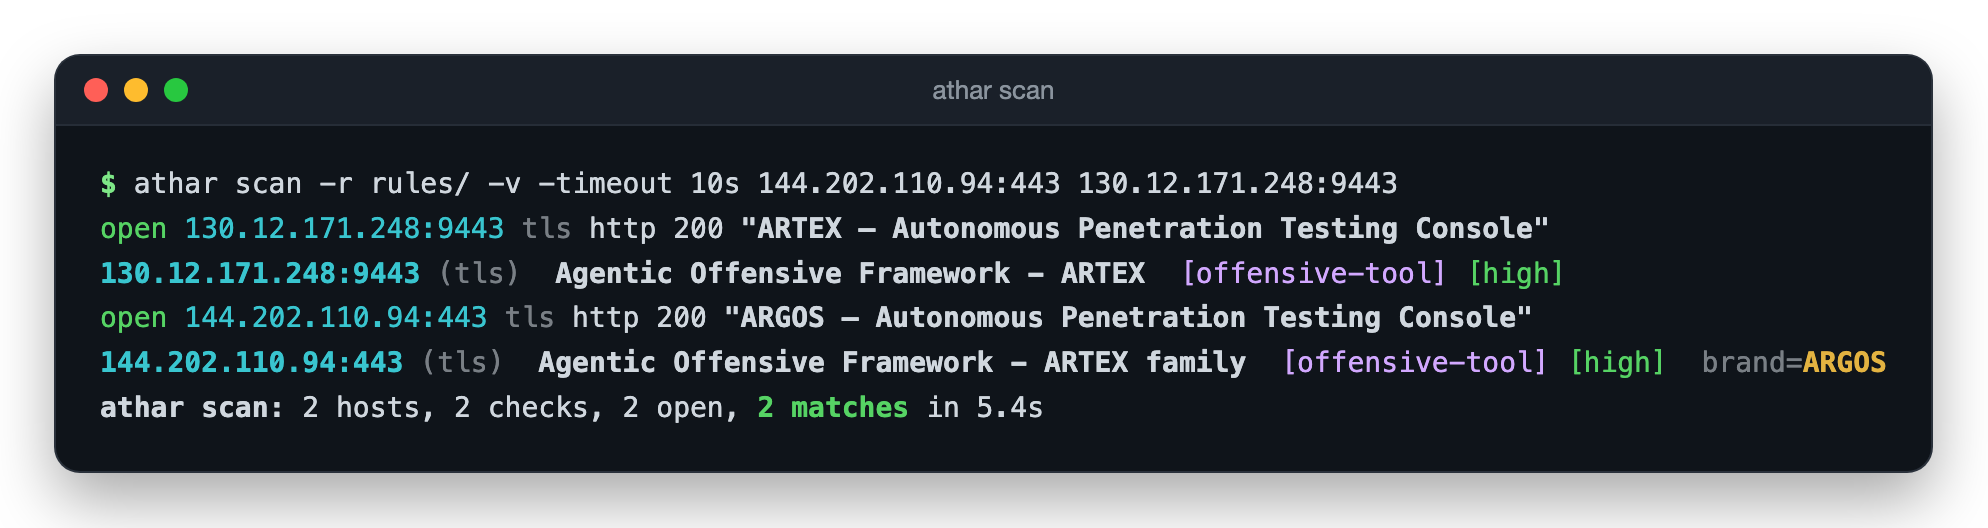
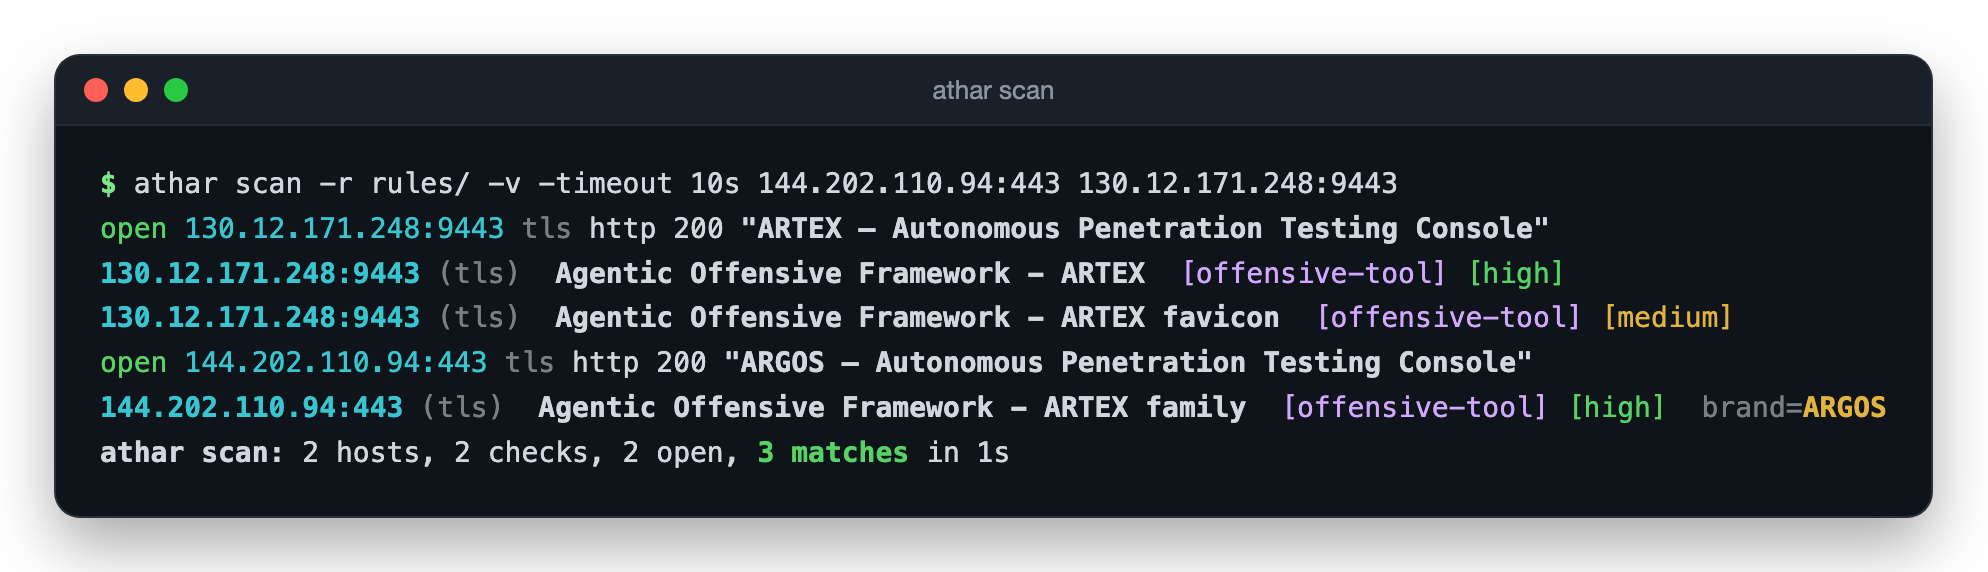
Update the README rule example and spec to the localized ARTEX rule
- README "A rule": the current family rule (titles in Chinese, Korean
  and English, brand extraction, ports), tests written as response,
  expect, extracted, and a short walk through each section
- A test fails CI if the README example stops passing verify -strict
  or drifts from the real rule with the same id
- Spec: sections 6, 7, 9 and 10 use the current rules; section 9
  explains extracted with an example; section 10 shows real convert
  output, including the Shodan value list
- Scan example and screenshot rerun with the current rules, which now
  include the ARTEX favicon rule
- Rule template lists response before expect

Changed region(s): [[0.0312, 0.303, 0.9668, 0.8182], [0.0312, 0.0909, 0.9668, 0.2424], [0.0312, 0.8788, 0.9668, 0.9091]]

diff --git a/cli/cmd/athar/main_test.go b/cli/cmd/athar/main_test.go
@@ -7,8 +7,11 @@ import (
 	"net/http/httptest"
 	"os"
 	"path/filepath"
+	"reflect"
 	"strings"
 	"testing"
+
+	"github.com/Athar-HQ/Athar/cli/internal/rule"
 )
 
 func runCLI(args ...string) (int, string, string) {
@@ -266,4 +269,68 @@ func TestConvertCommand(t *testing.T) {
 			t.Errorf("%v: exit %d, want %d", args, code, exitUsage)
 		}
 	}
+}
+
+// The rule in the README's "A rule" section is the first one people read.
+// It must pass verify -strict, and apart from trimmed metadata and tests it
+// must be the real rule with the same id, so the two can't drift apart.
+func TestReadmeRuleExample(t *testing.T) {
+	readme, err := os.ReadFile("../../../README.md")
+	if err != nil {
+		t.Fatal(err)
+	}
+	text := string(readme)
+	section := strings.Index(text, "## A rule\n")
+	if section < 0 {
+		t.Fatal(`README has no "## A rule" section`)
+	}
+	text = text[section:]
+	start := strings.Index(text, "```yaml\n")
+	end := strings.Index(text[start+8:], "```")
+	if start < 0 || end < 0 {
+		t.Fatal(`no yaml block in the "A rule" section`)
+	}
+	example := text[start+8 : start+8+end]
+
+	path := filepath.Join(t.TempDir(), "readme-example.yml")
+	if err := os.WriteFile(path, []byte(example), 0o644); err != nil {
+		t.Fatal(err)
+	}
+	if code, out, errOut := runCLI("verify", "-strict", path); code != exitOK {
+		t.Fatalf("README rule example fails verify -strict:\n%s%s", out, errOut)
+	}
+
+	ex, err := rule.Parse([]byte(example), "README.md")
+	if err != nil {
+		t.Fatal(err)
+	}
+	files, err := rule.Files([]string{"../../../rules"})
+	if err != nil {
+		t.Fatal(err)
+	}
+	var real *rule.Rule
+	for _, f := range files {
+		r, err := rule.Load(f)
+		if err != nil {
+			t.Fatal(err)
+		}
+		if r.ID == ex.ID {
+			real = r
+		}
+	}
+	if real == nil {
+		t.Fatalf("README rule example has id %s, which no rule in rules/ has", ex.ID)
+	}
+	same := func(what string, a, b any) {
+		if !reflect.DeepEqual(a, b) {
+			t.Errorf("README rule example differs from %s in %s; update the \"A rule\" section\nREADME: %#v\nrule:   %#v", real.Path, what, a, b)
+		}
+	}
+	same("title", ex.Title, real.Title)
+	same("target.protocol", ex.Target.Protocol, real.Target.Protocol)
+	same("target.ports", ex.Target.Ports, real.Target.Ports)
+	same("detection", ex.Detection, real.Detection)
+	same("identifies", ex.Identifies, real.Identifies)
+	same("extract", ex.Extract, real.Extract)
+	same("confidence", ex.Confidence, real.Confidence)
 }

diff --git a/spec/athar-spec.md b/spec/athar-spec.md
@@ -163,15 +163,18 @@ Detection is Sigma's grammar, unchanged except for the `probe` key. A map is AND
 
 **Keywords.** Sigma's `keywords` selection (a bare list of strings) is kept for full-text search. It matches across `service.banner`, `http.headers_raw` and `http.body`, and maps to every engine's free-text search.
 
+A filter excludes what a selection would otherwise include. This detection finds consoles of the ARTEX family that no longer serve the original ARTEX favicon, which is how rebrands surface:
+
 ```yaml
 detection:
   selection_title:
-    http.title|contains: 'Autonomous Penetration Testing Console'
-  selection_body:
-    http.body|contains: '/function/tasks'
-  filter_known:
+    http.title|contains:
+      - '自主渗透测试控制台'
+      - '자율 침투 테스트 콘솔'
+      - 'Autonomous Penetration Testing Console'
+  filter_artex_icon:
     http.favicon.mmh3: -576220750
-  condition: selection_title and selection_body and not filter_known
+  condition: selection_title and not filter_artex_icon
 ```
 
 ## 7. Identification
@@ -183,25 +186,26 @@ detection:
 
 They run in that order. The scanner evaluates `detection` first and runs `extract` on the same response only if the rule matched. `extract` never changes the outcome: if its pattern finds nothing, the service still matches and the value is left out of the record. A field that `extract` reads does not have to appear in `detection`.
 
-The family rule shows the split. `detection` matches every brand by the title suffix and the route they share; `extract` then reads which brand this deployment shows from the part of the title before the suffix.
+The family rule shows the split. `detection` matches every brand by the title suffix they share, in Chinese, Korean or English; `extract` then reads which brand this deployment shows from the part of the title before the suffix.
 
 ```yaml
 detection:
   selection_title:
-    http.title|contains: 'Autonomous Penetration Testing Console'
-  selection_route:
-    http.body|contains: '/function/tasks'
-  condition: selection_title and selection_route
+    http.title|contains:
+      - '自主渗透测试控制台'
+      - '자율 침투 테스트 콘솔'
+      - 'Autonomous Penetration Testing Console'
+  condition: selection_title
 identifies:
   family: artex
   category: offensive-tool
 extract:
   brand:
     field: http.title
-    regex: '^(?P<brand>.+?)\s+[—–-]\s+Autonomous Penetration Testing Console'
+    regex: '^(?P<brand>.+?)\s*[—–\-:·]\s*(?:自主渗透测试控制台|자율 침투 테스트 콘솔|(?i:Autonomous Penetration Testing Console))'
 ```
 
-For the title `NKW — Autonomous Penetration Testing Console`, the record gets `brand: NKW`. A deployment whose title is only `Autonomous Penetration Testing Console` still matches; its record has no brand.
+For the title `ARTEX — 自主渗透测试控制台` the record gets `brand: ARTEX`, and for `NKW: 자율 침투 테스트 콘솔` it gets `brand: NKW`. A console whose title is only the suffix, `自主渗透测试控制台`, still matches; its record has no brand.
 
 Each `extract` entry is named after the value it produces and gives the `field` to read plus either an RE2 `regex` or a `jsonpath` for JSON bodies. The value is the regex group named like the entry (`(?P<brand>…)` for `brand`), else the first group, else the whole match. This is the same idea as Recog's `param` elements.
 
@@ -212,13 +216,14 @@ What a scanner emits for one matched service:
 ```json
 {
   "target": "176.31.234.8:80",
+  "tls": false,
   "rule": "0ce69e91-baee-4475-81ee-4b8eca1a6c3b",
   "title": "Agentic Offensive Framework - ARTEX family",
   "family": "artex",
   "category": "offensive-tool",
   "extracted": { "brand": "NKW" },
   "confidence": "high",
-  "matched": ["selection_title", "selection_route"],
+  "matched": ["selection_title"],
   "probes": ["default"],
   "observed": "2026-11-24T19:46:00Z"
 }
@@ -251,14 +256,26 @@ A rule needs both kinds:
 - A **`match`** test is a response the rule must recognise. Without one, nothing shows that the rule matches anything.
 - A **`no_match`** test is a near miss the rule must reject, such as a similar title on an unrelated page. It catches rules that are too loose.
 
-When someone later edits a selection, the tests show at once whether the rule stopped matching the real service or started matching the near miss. On a `match` test, `extracted` also checks the values `extract` produces.
+When someone later edits a selection, the tests show at once whether the rule stopped matching the real service or started matching the near miss.
+
+A `match` test can also check what `extract` reads. This test passes only if the rule matches the title and `extract` finds the brand `NKW` in it:
+
+```yaml
+tests:
+  - name: English title
+    response:
+      http.title: 'NKW — Autonomous Penetration Testing Console'
+    expect: match
+    extracted:
+      brand: NKW
+```
 
 | Key | Required | Meaning |
 | --- | --- | --- |
 | `name` | yes | Short description of the case. |
-| `expect` | yes | `match` or `no_match`. |
 | `response` | yes | Taxonomy fields and their values for the baseline probe. Fields not listed are absent. |
-| `extracted` | no | Values `extract` must produce for this response. |
+| `expect` | yes | `match` or `no_match`. |
+| `extracted` | no | On a `match` test, the values `extract` must find in this response, by name. |
 
 How tests give responses for custom probes is not defined yet.
 
@@ -287,30 +304,57 @@ A backend turns a rule into one engine's query and labels the result with its fi
 
 **Body truncation.** Engines index only part of large bodies; Censys [searches the first 6 KB](https://docs.censys.com/changelog/august-24-2026) for name-based web endpoints. A `body` match deep in a page can be missed by the engine but found by the scanner.
 
-Example conversions of the ARTEX rules in [rules/offensive-tool/](../rules/offensive-tool/):
+Example conversions of the ARTEX rules in [rules/offensive-tool/](../rules/offensive-tool/), as `athar convert` prints them. The family rule is three alternative titles:
 
 ```text
 Family, FOFA (exact):
-  title="Autonomous Penetration Testing Console" && body="/function/tasks"
+  title="自主渗透测试控制台" || title="자율 침투 테스트 콘솔"
+  || title="Autonomous Penetration Testing Console"
 
-Family, Shodan (approximate):
-  http.title:"Autonomous Penetration Testing Console" http.html:"/function/tasks"
+Family, Shodan (approximate: text is tokenised). Shodan has no OR between
+conditions, but it reads a comma-separated value list as "any of these":
+  http.title:"自主渗透测试控制台","자율 침투 테스트 콘솔","Autonomous Penetration Testing Console"
 
-Family, Censys Platform (approximate; nesting to verify):
-  host.services: (endpoints.http.html_title: "Autonomous Penetration Testing Console"
-                  and endpoints.http.body: "/function/tasks")
+Family, Censys Platform (approximate: ':' is tokenised):
+  host.services: (endpoints.http.html_title: "自主渗透测试控制台"
+                  or endpoints.http.html_title: "자율 침투 테스트 콘솔"
+                  or endpoints.http.html_title: "Autonomous Penetration Testing Console")
 
-Family, Modat at service level (approximate: http.body matches whole words):
-  http.title~"Autonomous Penetration Testing Console" and http.body~"/function/tasks"
+Family, Modat at service level (exact):
+  http.title~"自主渗透测试控制台" or http.title~"자율 침투 테스트 콘솔"
+  or http.title~"Autonomous Penetration Testing Console"
+```
 
-Variant, FOFA (approximate: startswith becomes contains):
-  title="Autonomous Penetration Testing Console" && body="/function/tasks"
+The ARTEX rule adds `title starts with ARTEX or the ARTEX favicon`:
+
+```text
+ARTEX, FOFA (approximate: startswith becomes contains):
+  (title="自主渗透测试控制台" || title="자율 침투 테스트 콘솔"
+   || title="Autonomous Penetration Testing Console")
   && (title="ARTEX" || icon_hash="-576220750")
 
-Basic auth, Modat at host level (exact):
-  same_service(http.headers: (key = "WWW-Authenticate"
-               and value = "Basic realm=\"ARTEX\", charset=\"UTF-8\""))
+ARTEX, Shodan (superset): the alternative of a title prefix and a favicon
+spans two filters, so it is dropped and only the family titles remain.
+  http.title:"自主渗透测试控制台","자율 침투 테스트 콘솔","Autonomous Penetration Testing Console"
+
+ARTEX, Modat (exact: =~ is a case-insensitive regex):
+  (http.title~"自主渗透测试控制台" or http.title~"자율 침투 테스트 콘솔"
+   or http.title~"Autonomous Penetration Testing Console")
+  and (http.title=~"^ARTEX" or http.files.mmh3=-576220750)
 ```
+
+The Basic auth rule matches one header, which only Modat can search by name:
+
+```text
+Basic auth, Modat at service level (exact):
+  http.headers: (key = "Www-Authenticate"
+                 and value = "Basic realm=\"ARTEX\", charset=\"UTF-8\"")
+
+Basic auth, FOFA (approximate: the value is searched in the whole header block):
+  header="Basic realm=\"ARTEX\", charset=\"UTF-8\""
+```
+
+At Modat host level, a query goes into `same_service( … )`.
 
 ## 11. Out of scope for v0.1
 

diff --git a/README.md b/README.md
@@ -28,35 +28,66 @@ If you can read a Sigma rule, you can read this one. The metadata and the `detec
 title: Agentic Offensive Framework - ARTEX family
 id: 0ce69e91-baee-4475-81ee-4b8eca1a6c3b
 status: experimental
+description: |
+  Web console of an agentic offensive framework that is deployed under many
+  brand names. Every brand keeps the same title suffix, in Chinese, Korean or
+  English, so matching the suffix finds the rebrands.
 author: Gameel Ali (@MalGamy12)
 date: 2026-11-24
 target:
   protocol: http
-  tls: auto
+  ports: [8787, 8443, 443, 80]
 detection:
   selection_title:
-    http.title|contains: 'Autonomous Penetration Testing Console'
-  selection_route:
-    http.body|contains: '/function/tasks'
-  condition: selection_title and selection_route
+    http.title|contains:
+      - '自主渗透测试控制台'
+      - '자율 침투 테스트 콘솔'
+      - 'Autonomous Penetration Testing Console'
+  condition: selection_title
 identifies:
   family: artex
   category: offensive-tool
 extract:
-  brand:
+  brand:  # the text before the suffix
     field: http.title
-    regex: '^(?P<brand>.+?)\s+[—–-]\s+Autonomous Penetration Testing Console'
+    regex: '^(?P<brand>.+?)\s*[—–\-:·]\s*(?:自主渗透测试控制台|자율 침투 테스트 콘솔|(?i:Autonomous Penetration Testing Console))'
 confidence: high
-tests:
-  - name: NKW branding
+tests:  # given this response, the rule must give this result
+  - name: ARTEX, Chinese title, em dash
+    response:
+      http.title: 'ARTEX — 自主渗透测试控制台'
     expect: match
-    extracted: { brand: NKW }
+    extracted:
+      brand: ARTEX  # the value extract must find in this title
+  - name: ARTEX, Korean title, colon
+    response:
+      http.title: 'ARTEX: 자율 침투 테스트 콘솔'
+    expect: match
+    extracted:
+      brand: ARTEX
+  - name: English title
     response:
       http.title: 'NKW — Autonomous Penetration Testing Console'
-      http.body: '... /function/tasks ...'
+    expect: match
+    extracted:
+      brand: NKW
+  - name: English pentest vendor page
+    response:
+      http.title: 'Penetration Testing Services | Example Corp'
+    expect: no_match
 ```
 
-The full rule, with its description, negative test and the original FOFA query, is in [rules/offensive-tool/aof_artex.yml](rules/offensive-tool/aof_artex.yml).
+Read it top to bottom:
+
+- **`target`**: an HTTP service, with or without TLS. The ports are where these consoles usually listen; they tell `athar scan` where to look and never decide a match.
+- **`detection`**: the page title contains the console's suffix in one of three languages. A list of values means "any of them", as in Sigma.
+- **`identifies`** and **`extract`**: a match is a console of the ARTEX family, and the brand is whatever comes before the suffix.
+- **`confidence`**: how likely a match is this software and not something that only looks like it.
+- **`tests`**: sample responses and the result the rule must give for each. `expect` is `match` or `no_match`; for a match, `extracted` lists what `extract` must find, so `brand: NKW` means the brand read from `NKW — Autonomous Penetration Testing Console` has to be `NKW`. `athar verify` runs the tests, and CI rejects a rule whose tests fail.
+
+The same rule drives every command. `athar scan` evaluates it on live responses and prints the brand it finds; `athar convert` turns it into a query for each search engine.
+
+The full rule, with references, false positives, more tests and the original engine queries, is in [rules/offensive-tool/aof_artex.yml](rules/offensive-tool/aof_artex.yml).
 
 ## How it works
 
@@ -163,10 +194,10 @@ It connects to every host and port, fingerprints each open port (TLS certificate
 
 A real scan from 25 November 2026. Infrastructure like this moves fast, so these hosts may answer differently by the time you read this.
 
-![athar scan of 144.202.110.94:443 and 130.12.171.248:9443: the ARTEX variant rule matches an ARTEX console, the family rule matches an ARGOS console and extracts brand=ARGOS](docs/images/athar-scan.png)
+![athar scan of 144.202.110.94:443 and 130.12.171.248:9443: the ARTEX and ARTEX favicon rules match an ARTEX console, the family rule matches an ARGOS console and extracts brand=ARGOS](docs/images/athar-scan.png)
 
-- **130.12.171.248:9443** is an ARTEX console. The ARTEX variant rule matches both its title prefix and its favicon hash, so it replaces the family match.
-- **144.202.110.94:443** is an ARGOS console behind a Caddy proxy with a Let's Encrypt certificate for the IP. The family rule matches and extracts the brand. The ARTEX variant rule does not, because neither the title prefix nor the favicon is ARTEX's.
+- **130.12.171.248:9443** is an ARTEX console. The ARTEX rule matches both its title prefix and its favicon hash, so it replaces the family match. The ARTEX favicon rule, which looks for the favicon alone to catch consoles with a changed title, matches too, with medium confidence.
+- **144.202.110.94:443** is an ARGOS console behind a Caddy proxy with a Let's Encrypt certificate for the IP. The family rule matches and extracts the brand. The ARTEX and ARTEX favicon rules do not, because neither the title prefix nor the favicon is ARTEX's.
 
 An hour earlier the first host accepted connections but reset every request, perhaps because of a source-IP filter or a restart. `-v` showed it as:
 
@@ -178,7 +209,8 @@ For tools, `-json` prints one JSON object per line instead, for example to pipe 
 
 ```text
 $ athar scan -r rules/ -json -timeout 10s 130.12.171.248:9443
-{"target":"130.12.171.248:9443","tls":true,"rule":"0536c409-98ed-4d1d-8e07-7c80b39a4f53","title":"Agentic Offensive Framework - ARTEX","product":"ARTEX","family":"artex","category":"offensive-tool","confidence":"high","matched":["selection_brand","selection_icon","selection_route","selection_title"],"probes":["default"],"observed":"2026-11-25T08:18:27Z"}
+{"target":"130.12.171.248:9443","tls":true,"rule":"0536c409-98ed-4d1d-8e07-7c80b39a4f53","title":"Agentic Offensive Framework - ARTEX","product":"ARTEX","family":"artex","category":"offensive-tool","confidence":"high","matched":["selection_brand","selection_icon","selection_title"],"probes":["default"],"observed":"2026-11-25T09:16:50Z"}
+{"target":"130.12.171.248:9443","tls":true,"rule":"425e5153-ed37-41c1-875f-537808d58078","title":"Agentic Offensive Framework - ARTEX favicon","product":"ARTEX","family":"artex","category":"offensive-tool","confidence":"medium","matched":["selection_icon"],"probes":["default"],"observed":"2026-11-25T09:16:50Z"}
 ```
 
 | Flag | Effect |

diff --git a/rules/README.md b/rules/README.md
@@ -72,15 +72,15 @@ falsepositives:
   - <when a legitimate service would match>
 tests:
   - name: <positive case>
-    expect: match
     response:
       http.title: '<title>'
       http.body: '... <string> ...'
+    expect: match
   - name: <near miss>
-    expect: no_match
     response:
       http.title: '<similar but different title>'
       http.body: '...'
+    expect: no_match
 native:
   <engine>: '<the query you originally used>'
 ```
